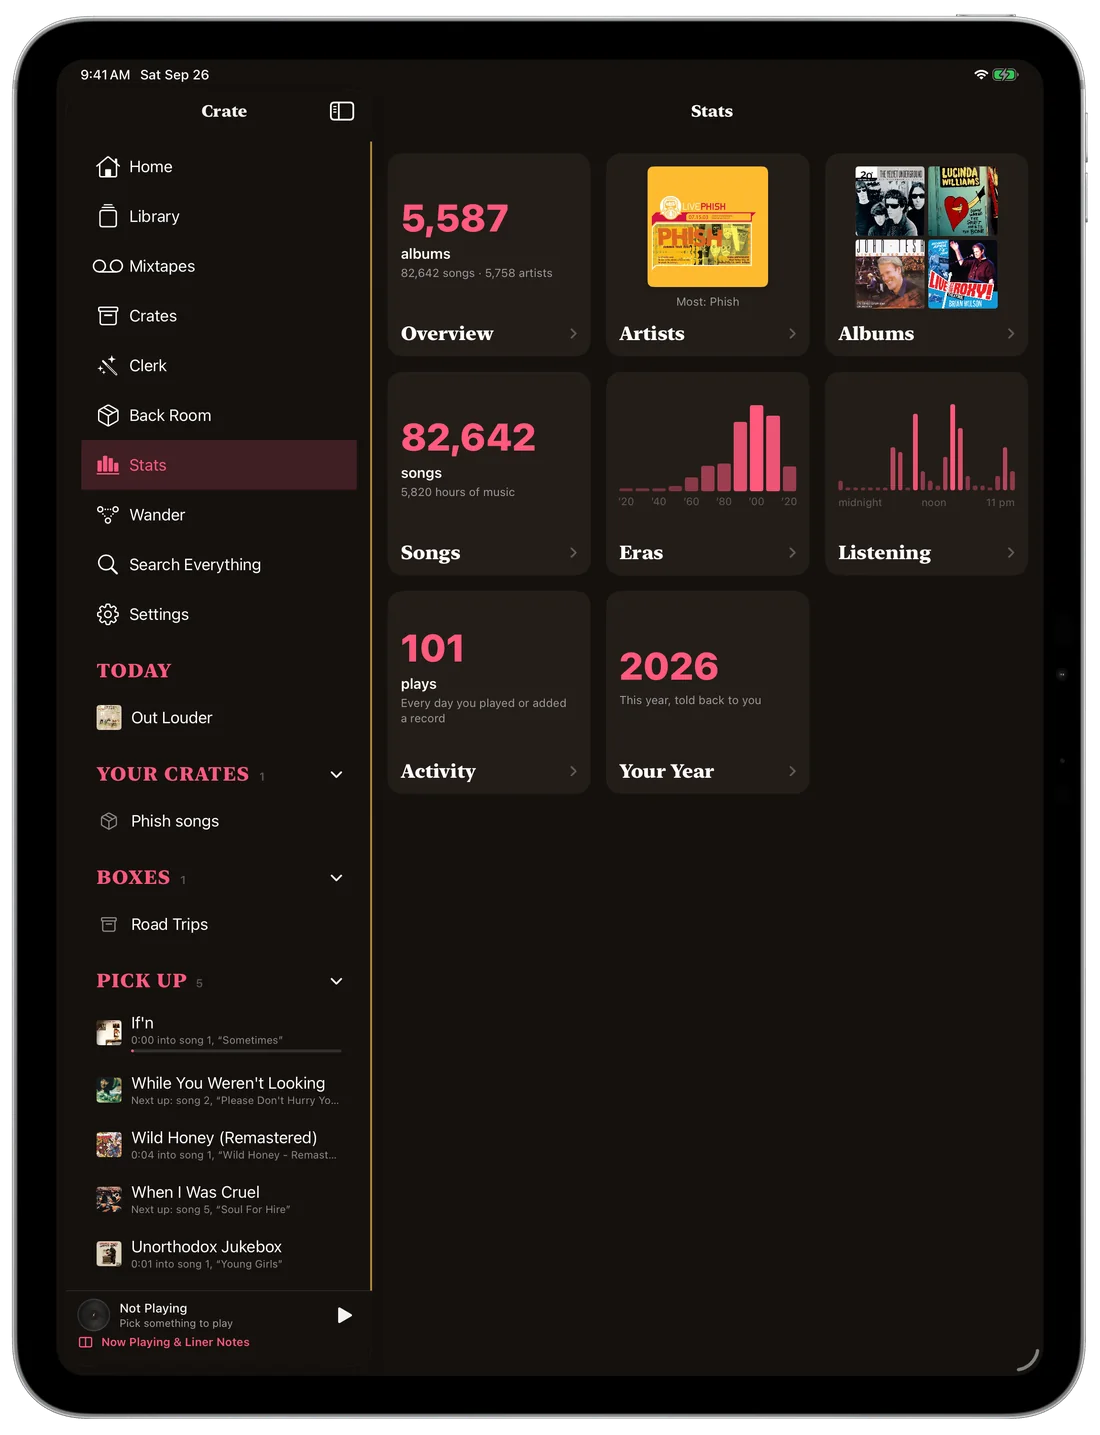
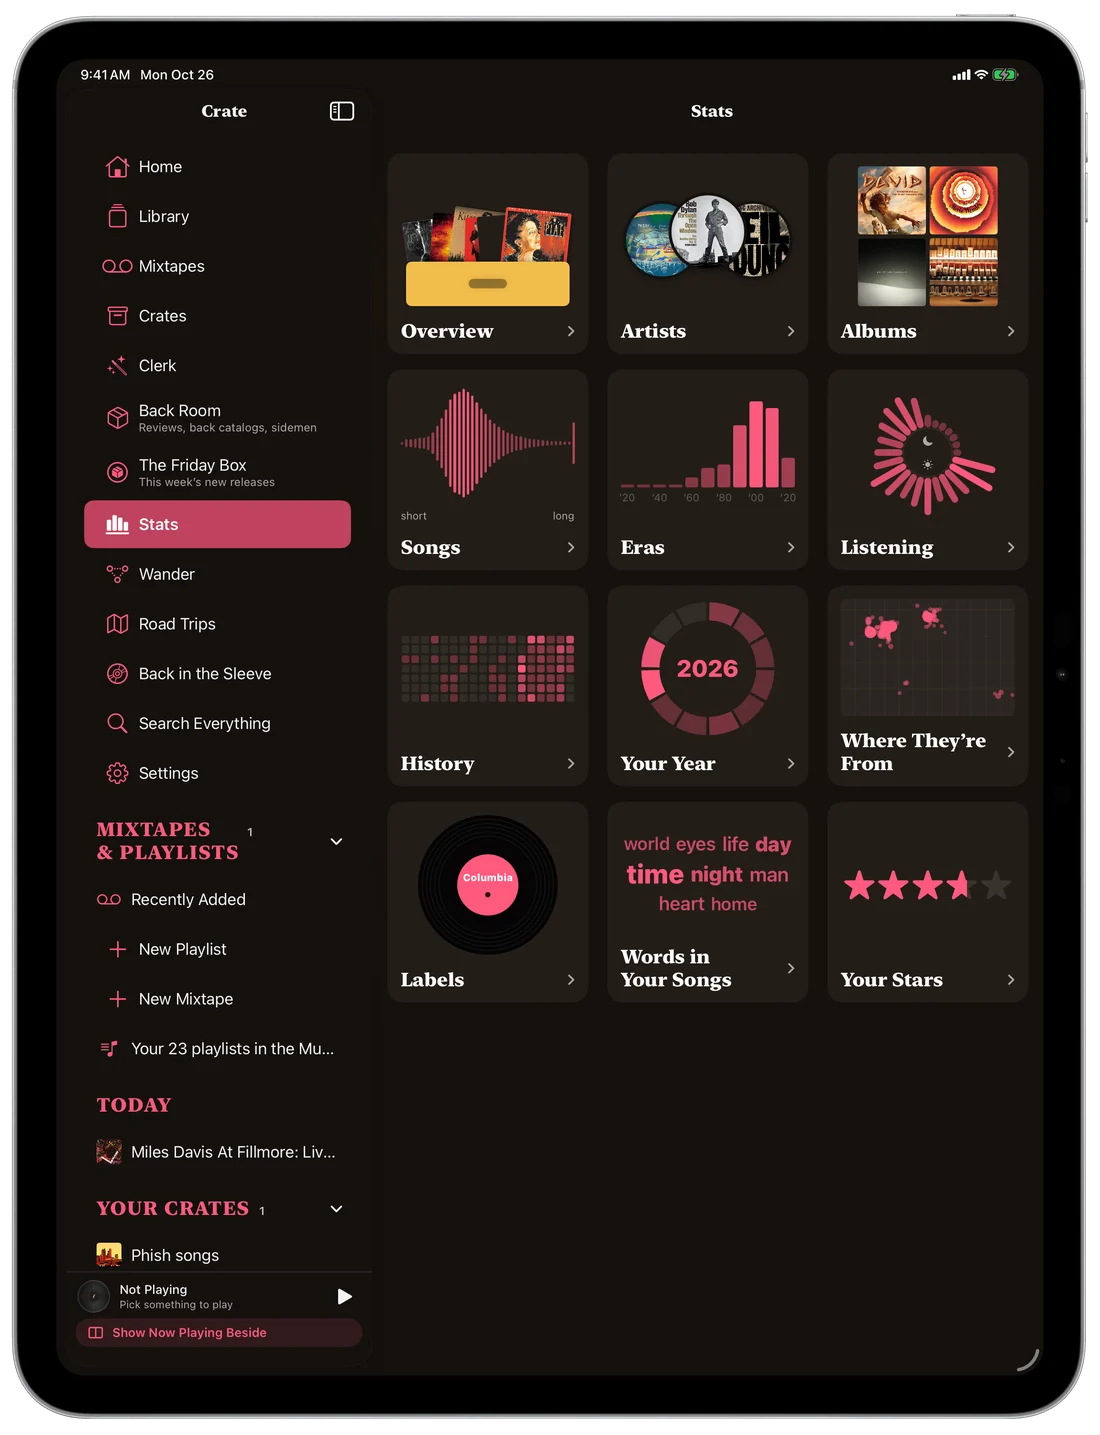
New screenshots: Stats wall, Looks, widgets

diff --git a/index.html b/index.html
@@ -57,7 +57,7 @@
     </div>
     <div class="hero-art">
       <picture><source srcset="img/ipad-home-dark.webp" media="(prefers-color-scheme: dark)"><img class="pad" src="img/ipad-home.webp" width="1100" height="1435" alt="Crate on iPad: Home with Album of the Day and The Friday Box, beside the sidebar of every room and your mixtapes and playlists"></picture>
-      <picture><source srcset="img/iphone-home-dark.webp" media="(prefers-color-scheme: dark)"><img class="phone" src="img/iphone-home.webp" width="560" height="1143" alt="Crate on iPhone: Good afternoon, with albums to pick up where you left off and today's Album of the Day"></picture>
+      <picture><source srcset="img/iphone-home-dark.webp" media="(prefers-color-scheme: dark)"><img class="phone" src="img/iphone-home.webp" width="560" height="1143" alt="Crate on iPhone: Good morning, with albums to pick up where you left off and today's Album of the Day"></picture>
     </div>
   </section>
   <figure class="reel">
@@ -279,7 +279,7 @@
         <p class="soft">The Mixtape widget is a cassette in the tape's own colour; hold it to choose which tape. Pick Up, Now Playing and the Road Trip you’re on are there too.</p>
       </div>
       <div class="devices two-phones">
-        <img class="phone" src="img/iphone-widgets.webp" width="560" height="1143" loading="lazy" alt="Crate's widgets on an iPhone home screen: Album of the Day (On the Water by Future Islands) with Drop the Needle, Today's Crate (October Light) with Play a Mix, the Forgotten Favorites mixtape as a cassette with Play, and Right Now (Autumn Drift)">
+        <img class="phone" src="img/iphone-widgets.webp" width="560" height="1143" loading="lazy" alt="Crate's widgets on an iPhone home screen: Album of the Day (Miles Davis at Fillmore) with Drop the Needle, Top of the Pile (Night in the Title) with Play a Mix, the Recently Added mixtape as a cassette with Play, and Right Now (Monday Morning)">
         <img class="phone" src="img/iphone-widgets-dark.webp" width="560" height="1143" loading="lazy" alt="The same widgets on a dark home screen">
       </div>
     </div>
@@ -328,17 +328,18 @@
     <div class="row">
       <div class="copy">
         <div class="label">Your library, counted</div>
-        <h2>Every play, year by year, down to the song.</h2>
-        <p>Stats shows what you really have and how you really listen. Open a year, then a month, then a day, and see each song you played and when. It updates as each song ends.</p>
+        <h2>Twelve ways to see your library.</h2>
+        <p>Stats is a wall of twelve sleeves, each drawn from your own records: the hours you listen as a clock, your year as a ring, your artists' hometowns as lights on a map, the label you own most on a record, the words your songs sing most. Tap a town, a label or a word and Crate plans a road trip through it.</p>
+        <p>Open History for every play, year by year, down to the song: a year, then a month, then a day, and each song you played and when.</p>
         <div class="nums" aria-label="Figures from the library shown in these screenshots">
-          <div class="num"><b>8,048</b><span>albums</span></div>
-          <div class="num"><b>119,152</b><span>songs</span></div>
-          <div class="num"><b>8,339</b><span>hours of music</span></div>
+          <div class="num"><b>12</b><span>sections</span></div>
+          <div class="num"><b>10,858</b><span>albums</span></div>
+          <div class="num"><b>141,085</b><span>songs</span></div>
         </div>
         <p class="soft">A real library, as the screenshots show it. Crate starts from Apple Music's own play counts, keeps every play it sees as it goes, and Last.fm can fill in everything before.</p>
       </div>
       <div class="devices">
-        <picture><source srcset="img/ipad-stats-dark.webp" media="(prefers-color-scheme: dark)"><img class="pad" src="img/ipad-stats.webp" width="1100" height="1435" alt="Stats on iPad: albums, artists, songs, eras by decade, listening by hour, activity and your year"></picture>
+        <picture><source srcset="img/ipad-stats-dark.webp" media="(prefers-color-scheme: dark)"><img class="pad" src="img/ipad-stats.webp" width="1100" height="1435" alt="Stats on iPad: twelve sleeves, among them a crate of records for Overview, a waveform of song lengths, a clock of the hours you listen, your year as a ring, hometowns on a map, a label on a record, a cloud of sung words and five stars"></picture>
         <picture><source srcset="img/iphone-listening-dark.webp" media="(prefers-color-scheme: dark)"><img class="phone" src="img/iphone-listening.webp" width="560" height="1145" alt="Every Play on iPhone: 2026, then September, then Monday the 21st with each song and the time it was played"></picture>
       </div>
     </div>
